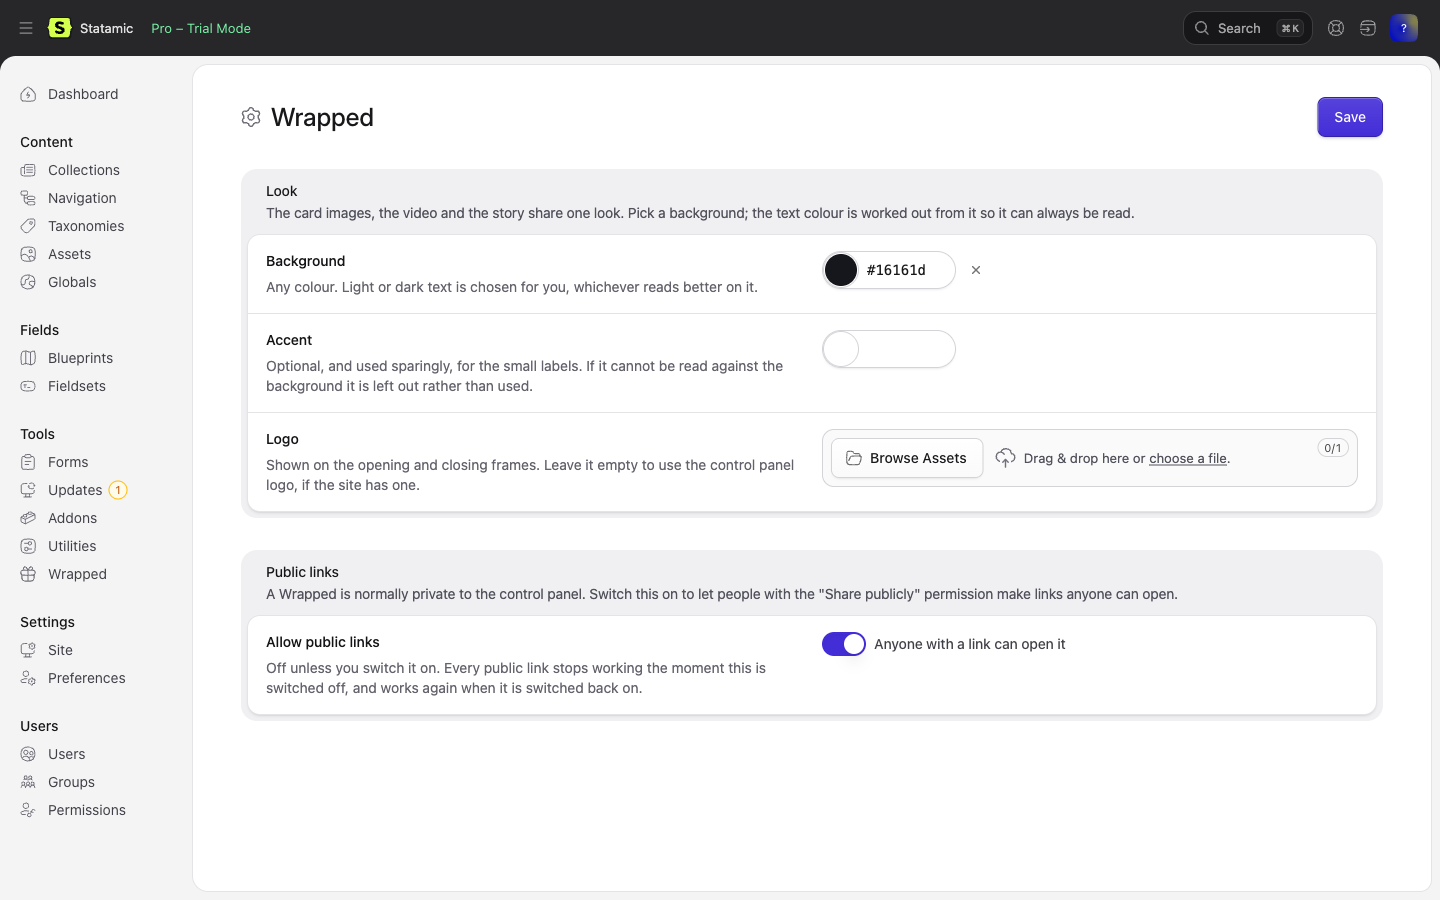
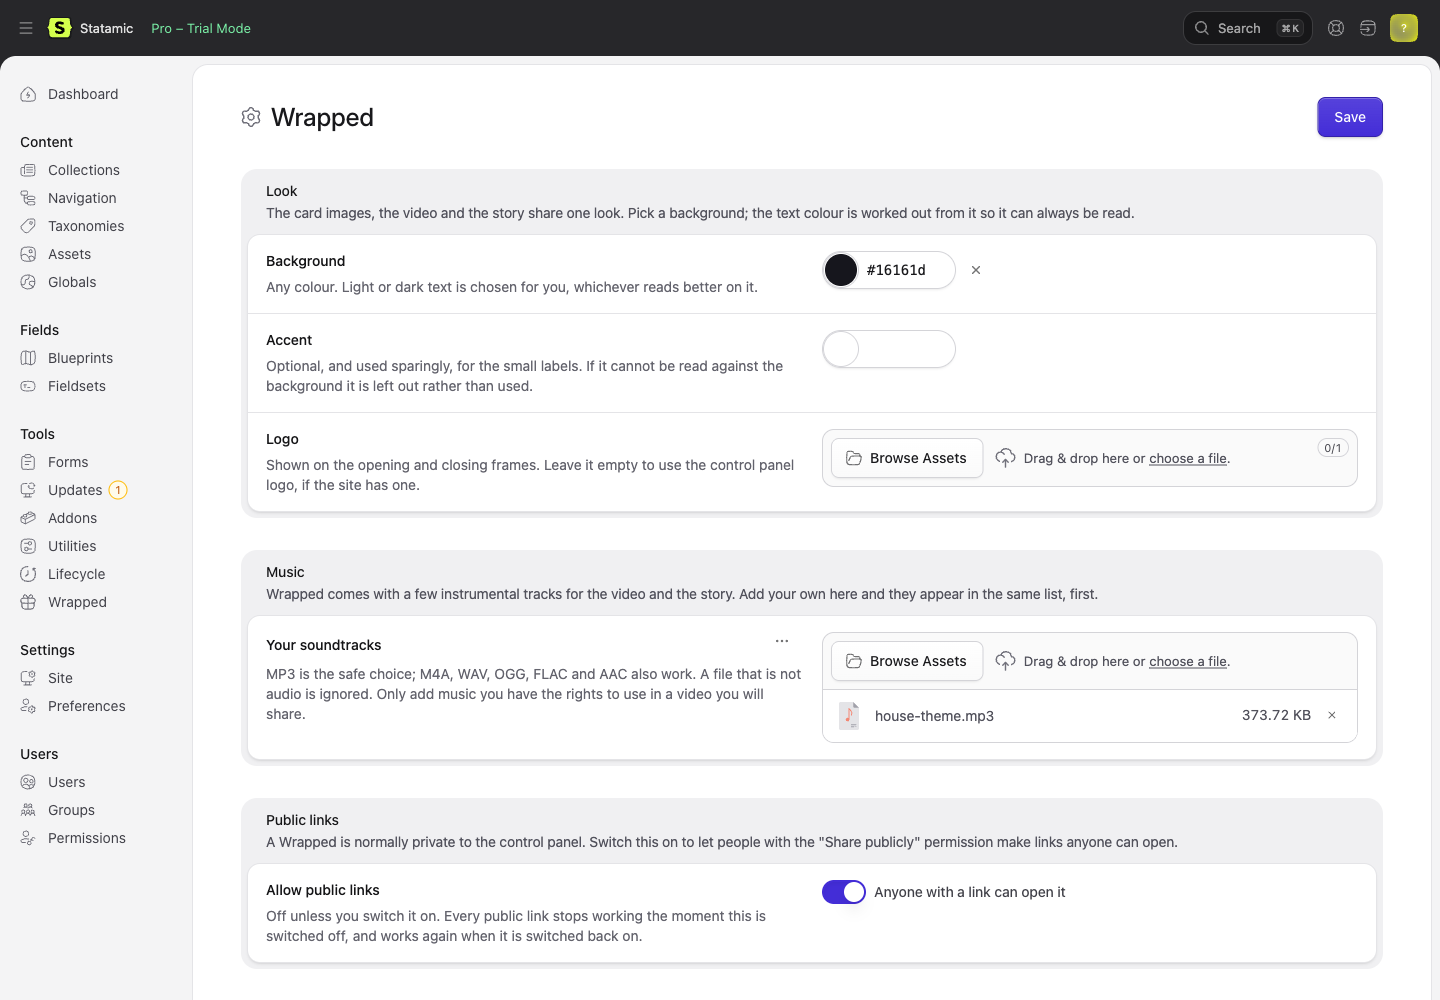
README: screenshots in every section they belong to, text current for 1.6
Story, video maker, settings, share panel, public page and widget pictures
placed where the README talks about them; settings, share panel and video
maker retaken from 1.6. Two lines of text caught up: the closing line's
public voice, and where a public link's music comes from.

diff --git a/README.md b/README.md
@@ -47,6 +47,8 @@ For the dashboard widget, add it to the widgets in `config/statamic/cp.php`:
 
 It shows the headline number once there is a Wrapped to show, and nudges in December.
 
+![The dashboard widget](docs/screenshots/dashboard-widget.png)
+
 Upgrading, whenever the [changelog](CHANGELOG.md) says so:
 
 ```bash
@@ -121,6 +123,10 @@ Without a browser the download links simply do not appear. The screen is the rea
 
 **Play it** on the Wrapped screen opens the story: the same facts, one per screen, advanced by tap, click or arrow key. Nothing moves until the reader says so, it works from a keyboard, and a screen reader is read each fact as it appears. Music is off until asked. This is the accessible version, and the one the video is made from.
 
+![The story: one fact per screen, in the control panel](docs/screenshots/story.png)
+
+On a public link the same story plays with whatever music the link was given; see [Public links](#music-on-a-public-link).
+
 **Make a video** turns it into a short vertical MP4 for Reels, Stories and TikTok. The editor ticks which cards go in (six by default, people cards never by default), picks a track, and downloads. Each card stays on screen for as long as its words take to read, so the pacing meets WCAG 2.1 AA; a running-time readout shows the length as boxes are ticked, and a typical Wrapped lands under thirty seconds.
 
 Video needs FFmpeg. If it is installed in a usual place it is found automatically; otherwise:
@@ -131,11 +137,15 @@ WRAPPED_FFMPEG_PATH=/usr/bin/ffmpeg
 
 Without it the video maker does not appear. The story and the images work regardless.
 
+![The video maker: tick the cards, pick a track, download](docs/screenshots/video-maker.png)
+
 ### Music
 
 The addon ships with a small set of instrumental tracks, made with [Suno](https://suno.com) on a plan that assigns ownership of the output, and shipped exactly as downloaded so Suno's own metadata stays in the files.
 
 **Add your own from the control panel.** Addons → Wrapped → Settings has a **Your soundtracks** field: drop in an MP3 (M4A, WAV, OGG, FLAC and AAC work too) and save. It appears at the top of the track list, named from its filename or the title you give the file. A file that is not audio is ignored. An asset container on S3 or another remote disk is fine; the file is copied to the server for the length of a video render and removed after.
+
+![The settings screen: look, your soundtracks, and the public-links switch](docs/screenshots/settings.png)
 
 **Or in config**, if you would rather keep music with the code, or offer only your own:
 
@@ -215,7 +225,7 @@ One Wrapped per site. Generate with `--site=` for one, or without it for all.
 
 ## Quarterly and monthly
 
-Add `--quarter=1` through `4` for three months instead of twelve, or `--month=1` through `12` for one, or choose them on the Build form. Same cards, same screen, and the closing line says "your quarter" or "your month" rather than "your year". The dashboard widget nudges only about the year, in December.
+Add `--quarter=1` through `4` for three months instead of twelve, or `--month=1` through `12` for one, or choose them on the Build form. Same cards, same screen, and the closing line says "your quarter" or "your month" rather than "your year" (or "our", on a public link). The dashboard widget nudges only about the year, in December.
 
 ## Public links
 
@@ -236,7 +246,9 @@ or switch on **Allow public links** at Addons → Wrapped → Settings, which wi
 - is the same **tap-through story** as the control panel, in your theme, with `noindex` and nothing of the control panel around it. Without JavaScript it reads as a plain page.
 - has a **Share** button: the phone's own share sheet where there is one, "Link copied" otherwise.
 - is **written as "we"** unless you choose "you" on the form. The control panel says "you published 42 entries" to the editor; a public reader did not publish anything, so the page says "we published", "our busiest month", "that was our year".
-- can have a **song**: see below.
+- can have **music**: see below.
+
+![The Share publicly panel: live links, the voice, the music choice](docs/screenshots/share-panel.png)
 
 Switching the setting back off stops every link at once. The first URL segment is `share.path` in the config.
 
@@ -249,6 +261,8 @@ Switching the setting back off stops every link at once. The first URL segment i
 **A YouTube video** is for a published song. Paste its link into **YouTube link** when making the public link. Any shape works: `youtube.com/watch?v=…`, `youtu.be/…`, shorts, embed. YouTube is asked about it once, with no API key and no quota, and the title and thumbnail it gives are kept with the link and shown under it in the control panel, so a wrong paste is visible and can be revoked. A link YouTube does not recognise (private, removed, not embeddable) is refused.
 
 On the public page the song is a small YouTube player in its own tile, opened by a **Play music** button on the first frame or **Music** in the controls, looping until **Stop music**. Nothing loads from YouTube until a reader presses one of them. The tile sits at the top on a phone and bottom-right on a wider screen, and the cards make room for it: YouTube's rules for an embedded player ask that it be at least 200×200, on screen, and never covered, hidden or reduced to audio, and the page keeps to them. Under the tile: the song's title and a link to YouTube's terms.
+
+![The public page on a phone, written as "we", with a YouTube song playing](docs/screenshots/public-story.png)
 
 Two things to know:
 

diff --git a/docs/marketplace.md b/docs/marketplace.md
@@ -48,15 +48,15 @@ Free. Statamic 6, PHP 8.2+.
 
 ## Screenshots, in order
 
-All taken from the shipped release on a seeded Statamic 6 site: 1.4 for most, 1.5 for the two public-links shots (7 and 8).
+All taken from the shipped release on a seeded Statamic 6 site: 1.4 for the cards, the screen, the story, the summary and the widget; 1.5 for the public page (8); 1.6 for the video maker, the settings screen and the share panel (5, 6, 7).
 
 1. `docs/screenshots/cp-screen.png` — the Wrapped screen, with the period picker and Play it
 2. `docs/screenshots/story.png` — the tap-through story in the control panel
 3. `docs/screenshots/card-busiest_time.png` — "You publish most on Tuesday"
 4. `docs/screenshots/card-longest_untouched.png` — "Quietly doing its job"
-5. `docs/screenshots/video-maker.png` — choosing cards and music for the video
-6. `docs/screenshots/settings.png` — the settings screen: look, and the public-links switch
-7. `docs/screenshots/share-panel.png` — making and revoking public links: the voice choice, the music field, a live link with its song
+5. `docs/screenshots/video-maker.png` — choosing cards and music for the video, an upload first in the list
+6. `docs/screenshots/settings.png` — the settings screen: look, your soundtracks, and the public-links switch
+7. `docs/screenshots/share-panel.png` — making and revoking public links: the voice choice, the three-way music choice, live links with a track and a song
 8. `docs/screenshots/public-story.png` — the public page on a phone, written as "we", with the YouTube tile open and the Share button
 9. `docs/screenshots/summary.png` — the whole thing as one image
 10. `docs/screenshots/dashboard-widget.png` — the dashboard widget
